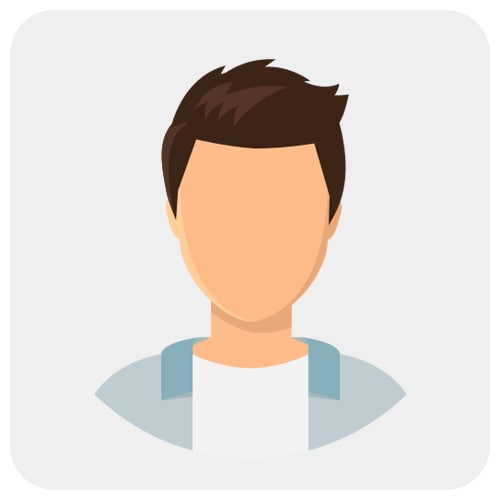
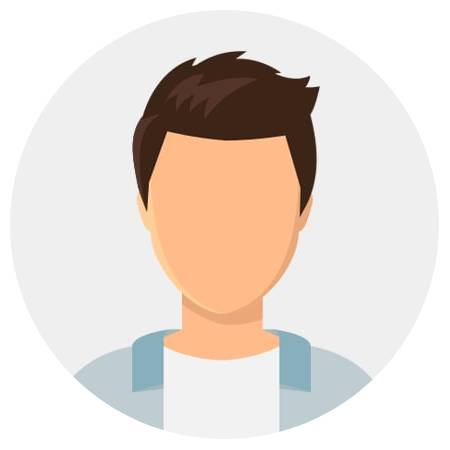
completed

Changed region(s): [[0.1556, 0.0933, 0.84, 0.9644]]

diff --git a/src/components/Navbar.vue b/src/components/Navbar.vue
@@ -46,14 +46,14 @@
         <div class="flex justify-end p-4" @click="isUser"><button></button><font-awesome-icon :icon="['fas', 'xmark']" class="font-bold text-2xl w-8 h-8" /></div>
         <div class="flex px-8 pb-6">
           <div class="relative">
-            <img src="@/assets/man.jpg" alt="eth" class="w-14 h-14 rounded-full">
-            <div class="absolute bg-brown w-14 h-4 rounded-full top-11 text-sm text-white text-center">{{userInfo?.creadit_score}}</div>
+            <img src="@/assets/man.jpg" alt="eth" class="w-14 h-14 rounded-4xl">
           </div>
           <div class="flex flex-col justify-center ml-4">
             <div>Wallet Adddress</div>
             <div v-if="address">{{`${address.slice(0, -36)}...${address.substring(37)}`}}</div>
             <div v-else>Please connect your wallet</div>
           </div>
+          <div class="absolute bg-brown w-14 h-4 rounded-full top-28 right-8 text-sm text-white text-center flex justify-center items-center"> <div>{{userInfo?.creadit_score}}</div> </div>
         </div> 
         <div class="bg-white rounded-2xl box-shadow m-4 font-bold">
           <div class="p-4">
@@ -185,7 +185,6 @@
                     <button class="bg-red-300 px-3 text-center rounded-full" @click="isConverted = !isConverted">Canel</button>
                   </div>
                 </div> 
-                <!-- :disabled="!isConfirm" -->
               </div>
             </div>
           </div>

diff --git a/src/views/Dashboard.vue b/src/views/Dashboard.vue
@@ -1,11 +1,22 @@
 <template>
   <div>
-    <Home/>
-    <StakingOption v-if="isApprove"/>
-    <BeaconChain/>
-    <Validators/>
-    <Validator/>
-    <EthScaling/>
+    <div v-if="walletAddress">
+      <Home/>
+      <StakingOption v-if="isApprove"/>
+      <BeaconChain/>
+      <Validators/>
+      <Validator/>
+      <EthScaling/>
+    </div>
+    <div class="flex flex-col justify-center items-center text-center w-80 mx-auto py-32 " v-else>
+      <img
+        class="w-52 h-96"
+        src="@/assets/eth-diamond-plain.svg"
+        alt="beijing"
+      />
+      <div class="text-2xl my-4">Inaccessible</div>
+      <div>This is a decentralized smart contract website, please visit in the decentralized wallet</div>
+    </div>
   </div>
 </template>
 <script>
@@ -30,7 +41,8 @@ export default {
   setup() {
     const store = useStore()
     const isApprove = computed(() => store.getters['user/getApprove'])
-    return { isApprove }
+    const walletAddress = computed(() => store.getters['user/getUserAddress'])
+    return { isApprove, walletAddress }
   }
 };
 </script>

diff --git a/src/components/dashboard/tab/TabsWrapper.vue b/src/components/dashboard/tab/TabsWrapper.vue
@@ -38,8 +38,6 @@ provide('selectedTitle', selectedTitle)
   display: flex;
   justify-content: space-between;
   border-radius: 5px 5px 0 0;
-  border-bottom: 1px black solid;
-
 }
 
 .tabs__item {
@@ -60,5 +58,7 @@ provide('selectedTitle', selectedTitle)
 .tabs__content {
   background-color: #fff;
   font-size: 14px;  
+  height: 380px;
+  overflow-y: auto;
 }
 </style>

diff --git a/src/App.vue b/src/App.vue
@@ -1,7 +1,9 @@
 <template>
-  <Navbar/>
-  <router-view />
-  <Footer/>
+  <div class="h-screen flex flex-col "> 
+    <Navbar/>
+    <router-view />
+    <Footer class="mt-auto"/>
+  </div>
 </template>
 <script>
 import Navbar from '@/components/Navbar.vue'

diff --git a/tailwind.config.js b/tailwind.config.js
@@ -42,6 +42,9 @@ module.exports = {
         '120': '26rem',
         '88': '24rem',
         '92': '20rem',
+      },
+      borderRadius: {
+        '4xl': '50px',
       }
     },
   },
